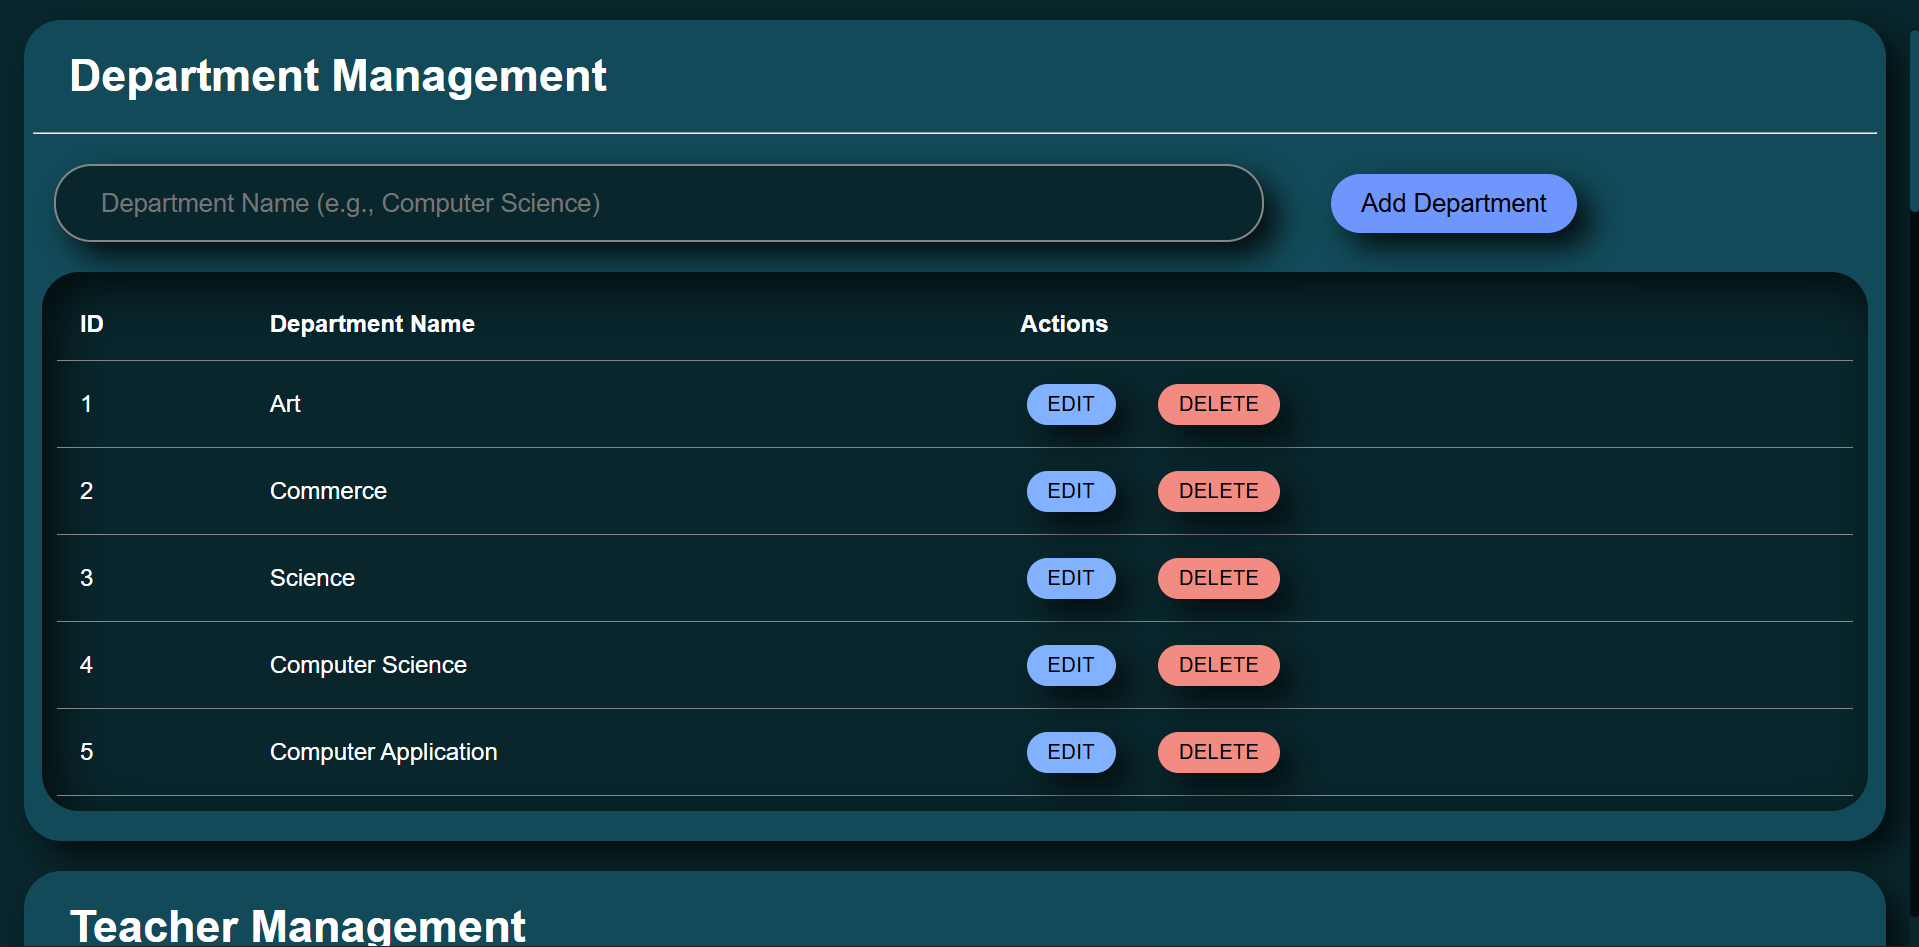
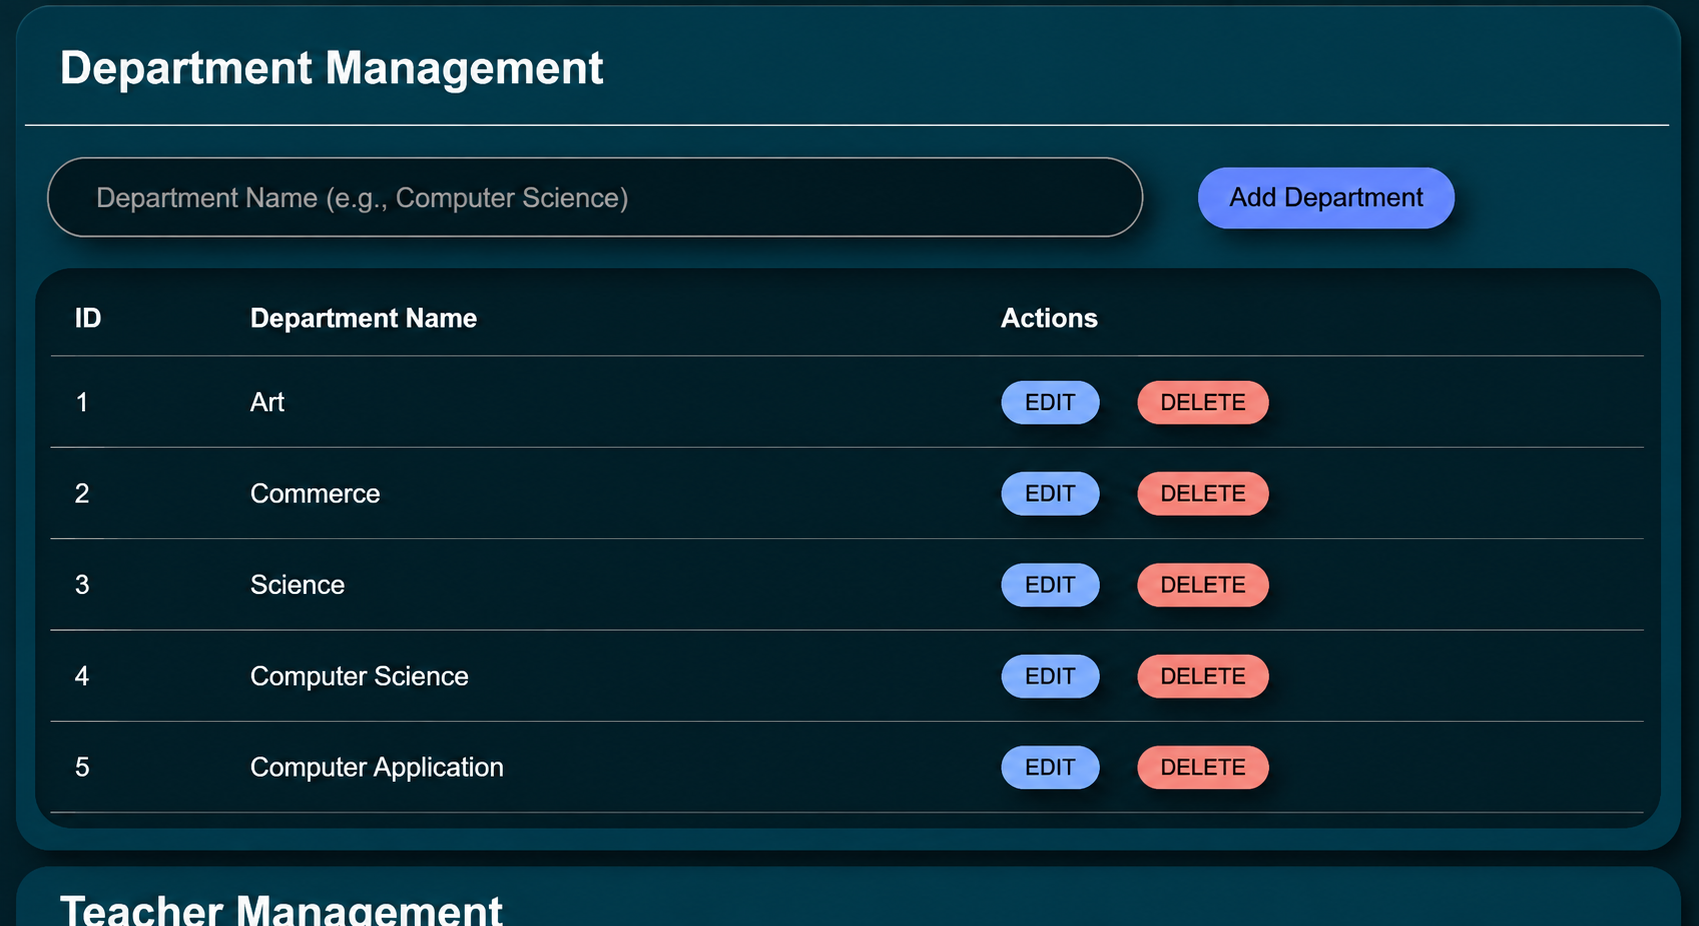
work.jsx issue and images related project has been fixed

diff --git a/portfolio/src/constants/index.js b/portfolio/src/constants/index.js
@@ -82,7 +82,7 @@ export const servicesData = [
 export const projects = [
   {
     id: 1,
-    name: "Campus Buddy — AI-Based College Chatbot",
+    name: "Campus Buddy : AI-Based College Chatbot",
     description:
       "An AI-powered chatbot for college FAQs, built on a Flask REST API with 12+ endpoints. Uses TF-IDF and cosine similarity for intent matching, with unmatched queries auto-logged for continuous improvement.",
     href: "", // TODO: add live demo or GitHub repo link
@@ -98,7 +98,7 @@ export const projects = [
   },
   {
     id: 2,
-    name: "Admin Dashboard — Chatbot Management Interface",
+    name: "Admin Dashboard : Chatbot Management Interface",
     description:
       "A responsive single-page admin panel with full CRUD for FAQs, announcements, teachers, and departments — all powered by the Fetch API with real-time table updates.",
     href: "", // TODO: add live demo or GitHub repo link
@@ -114,11 +114,11 @@ export const projects = [
   },
   {
     id: 3,
-    name: "FutureTech ERP — Institute Management System (Student side)",
+    name: "FutureTech ERP: Student Academic Progress Dashboard",
     description:
-      "A role-based college management system built with 29 Java Servlet classes across 5 modules: student registration, course management, fee tracking, assignment review, and admin settings.",
+      "A student-facing portal built with Java Servlets offering a personalized dashboard to track training progress, view module-wise course completion, manage assignments, and monitor fee history.",
     href: "", // TODO: add live demo or GitHub repo link
-    image: "/assets/projects/admin_side.png", // TODO: swap for a real FutureTech ERP screenshot
+    image: "/assets/projects/erp_student.png", // TODO: swap for a real FutureTech ERP screenshot
     bgImage: "/assets/backgrounds/map.jpg",
     frameworks: [
       { id: 1, name: "Java" },
@@ -129,11 +129,11 @@ export const projects = [
   },
   {
     id: 4,
-    name: "FutureTech ERP — Institute Management System (Admin side)",
+    name: "FutureTech ERP: Institute Operations Control Center",
     description:
-      "A role-based college management system built with 29 Java Servlet classes across 5 modules: student registration, course management, fee tracking, assignment review, and admin settings.",
+      "An administrative dashboard built with Java Servlets designed to oversee institute operations, featuring real-time metrics for active students, revenue tracking, fee management, and recent student activity monitoring.",
     href: "", // TODO: add live demo or GitHub repo link
-    image: "/assets/projects/admin_side.png", // TODO: swap for a real FutureTech ERP screenshot
+    image: "/assets/projects/erp_admin.png", // TODO: swap for a real FutureTech ERP screenshot
     bgImage: "/assets/backgrounds/map.jpg",
     frameworks: [
       { id: 1, name: "Java" },

diff --git a/portfolio/src/sections/Work.jsx b/portfolio/src/sections/Work.jsx
@@ -8,9 +8,9 @@ import {ScrollTrigger} from 'gsap/ScrollTrigger'
 gsap.registerPlugin(ScrollTrigger)
 const Work = () => {
 
-  const text = `Featured projects that have been meticulously
-  crafted with passion to drive
-  results and impact.`
+  const text = `Here are my featured projects built carefully with passion,
+  and hard work to solve real problems,
+  delivering truly great result.`
 
   const previewRef = useRef(null)
   const [currentIndex, setCurrentIndex] = useState(null)
